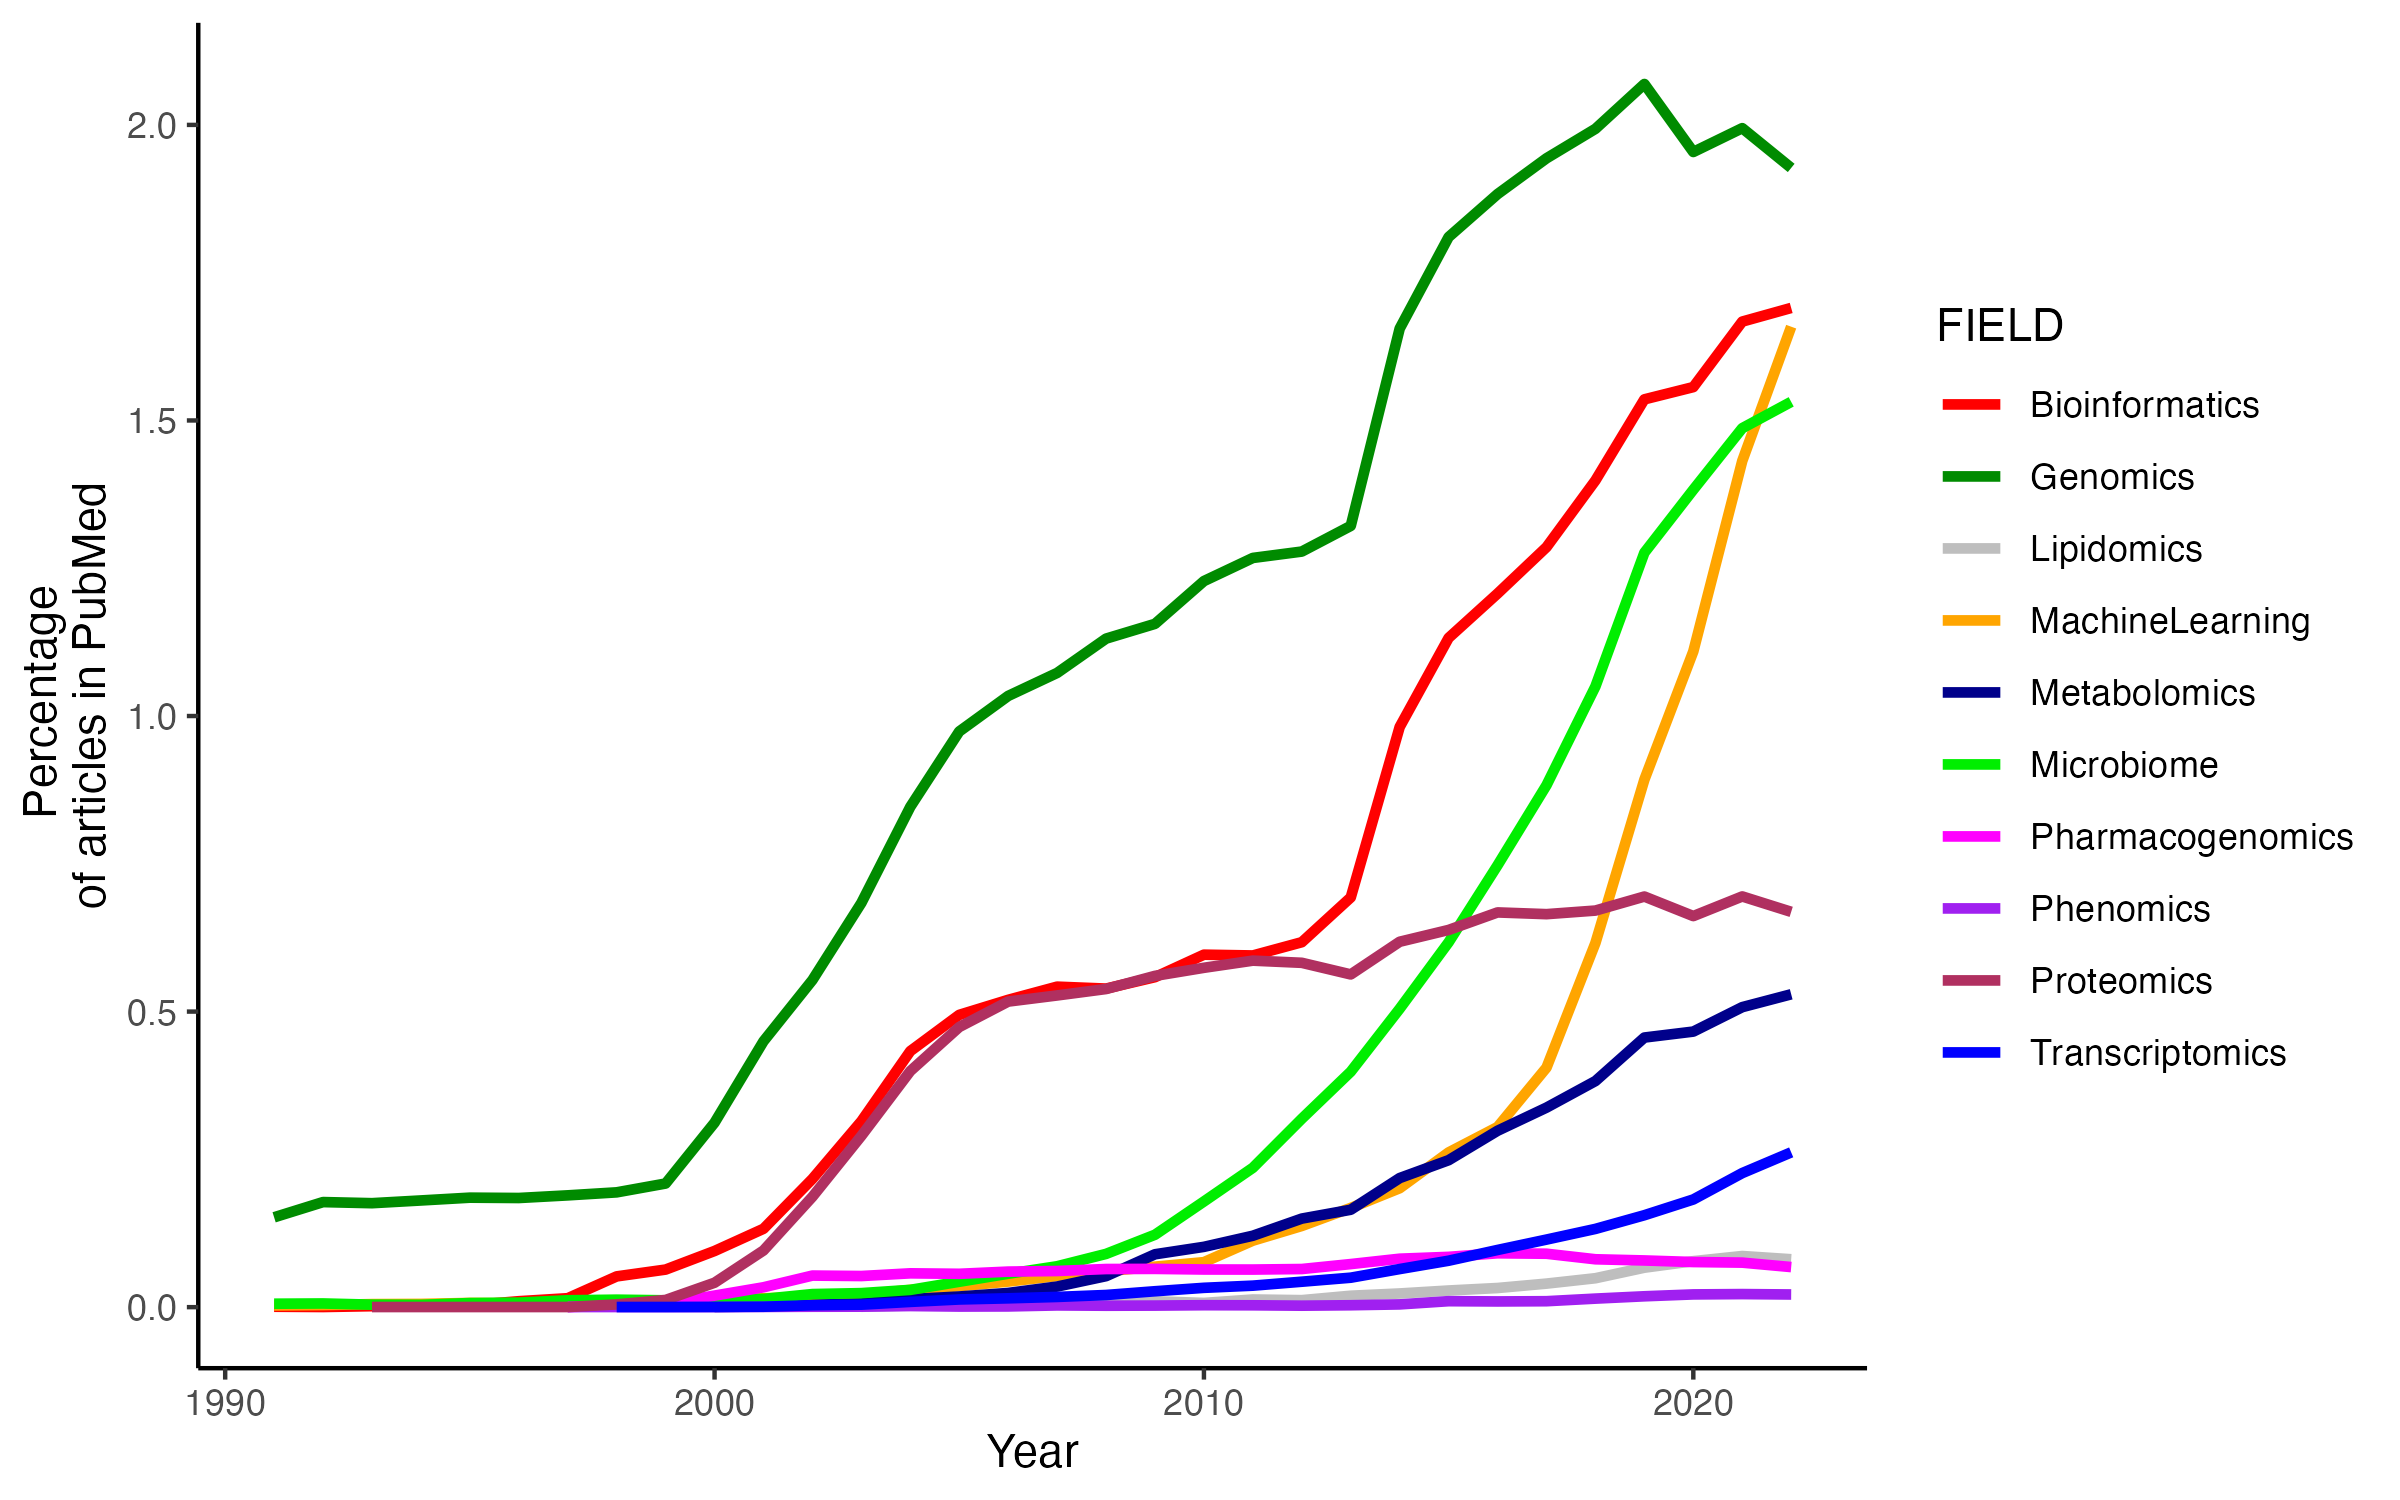
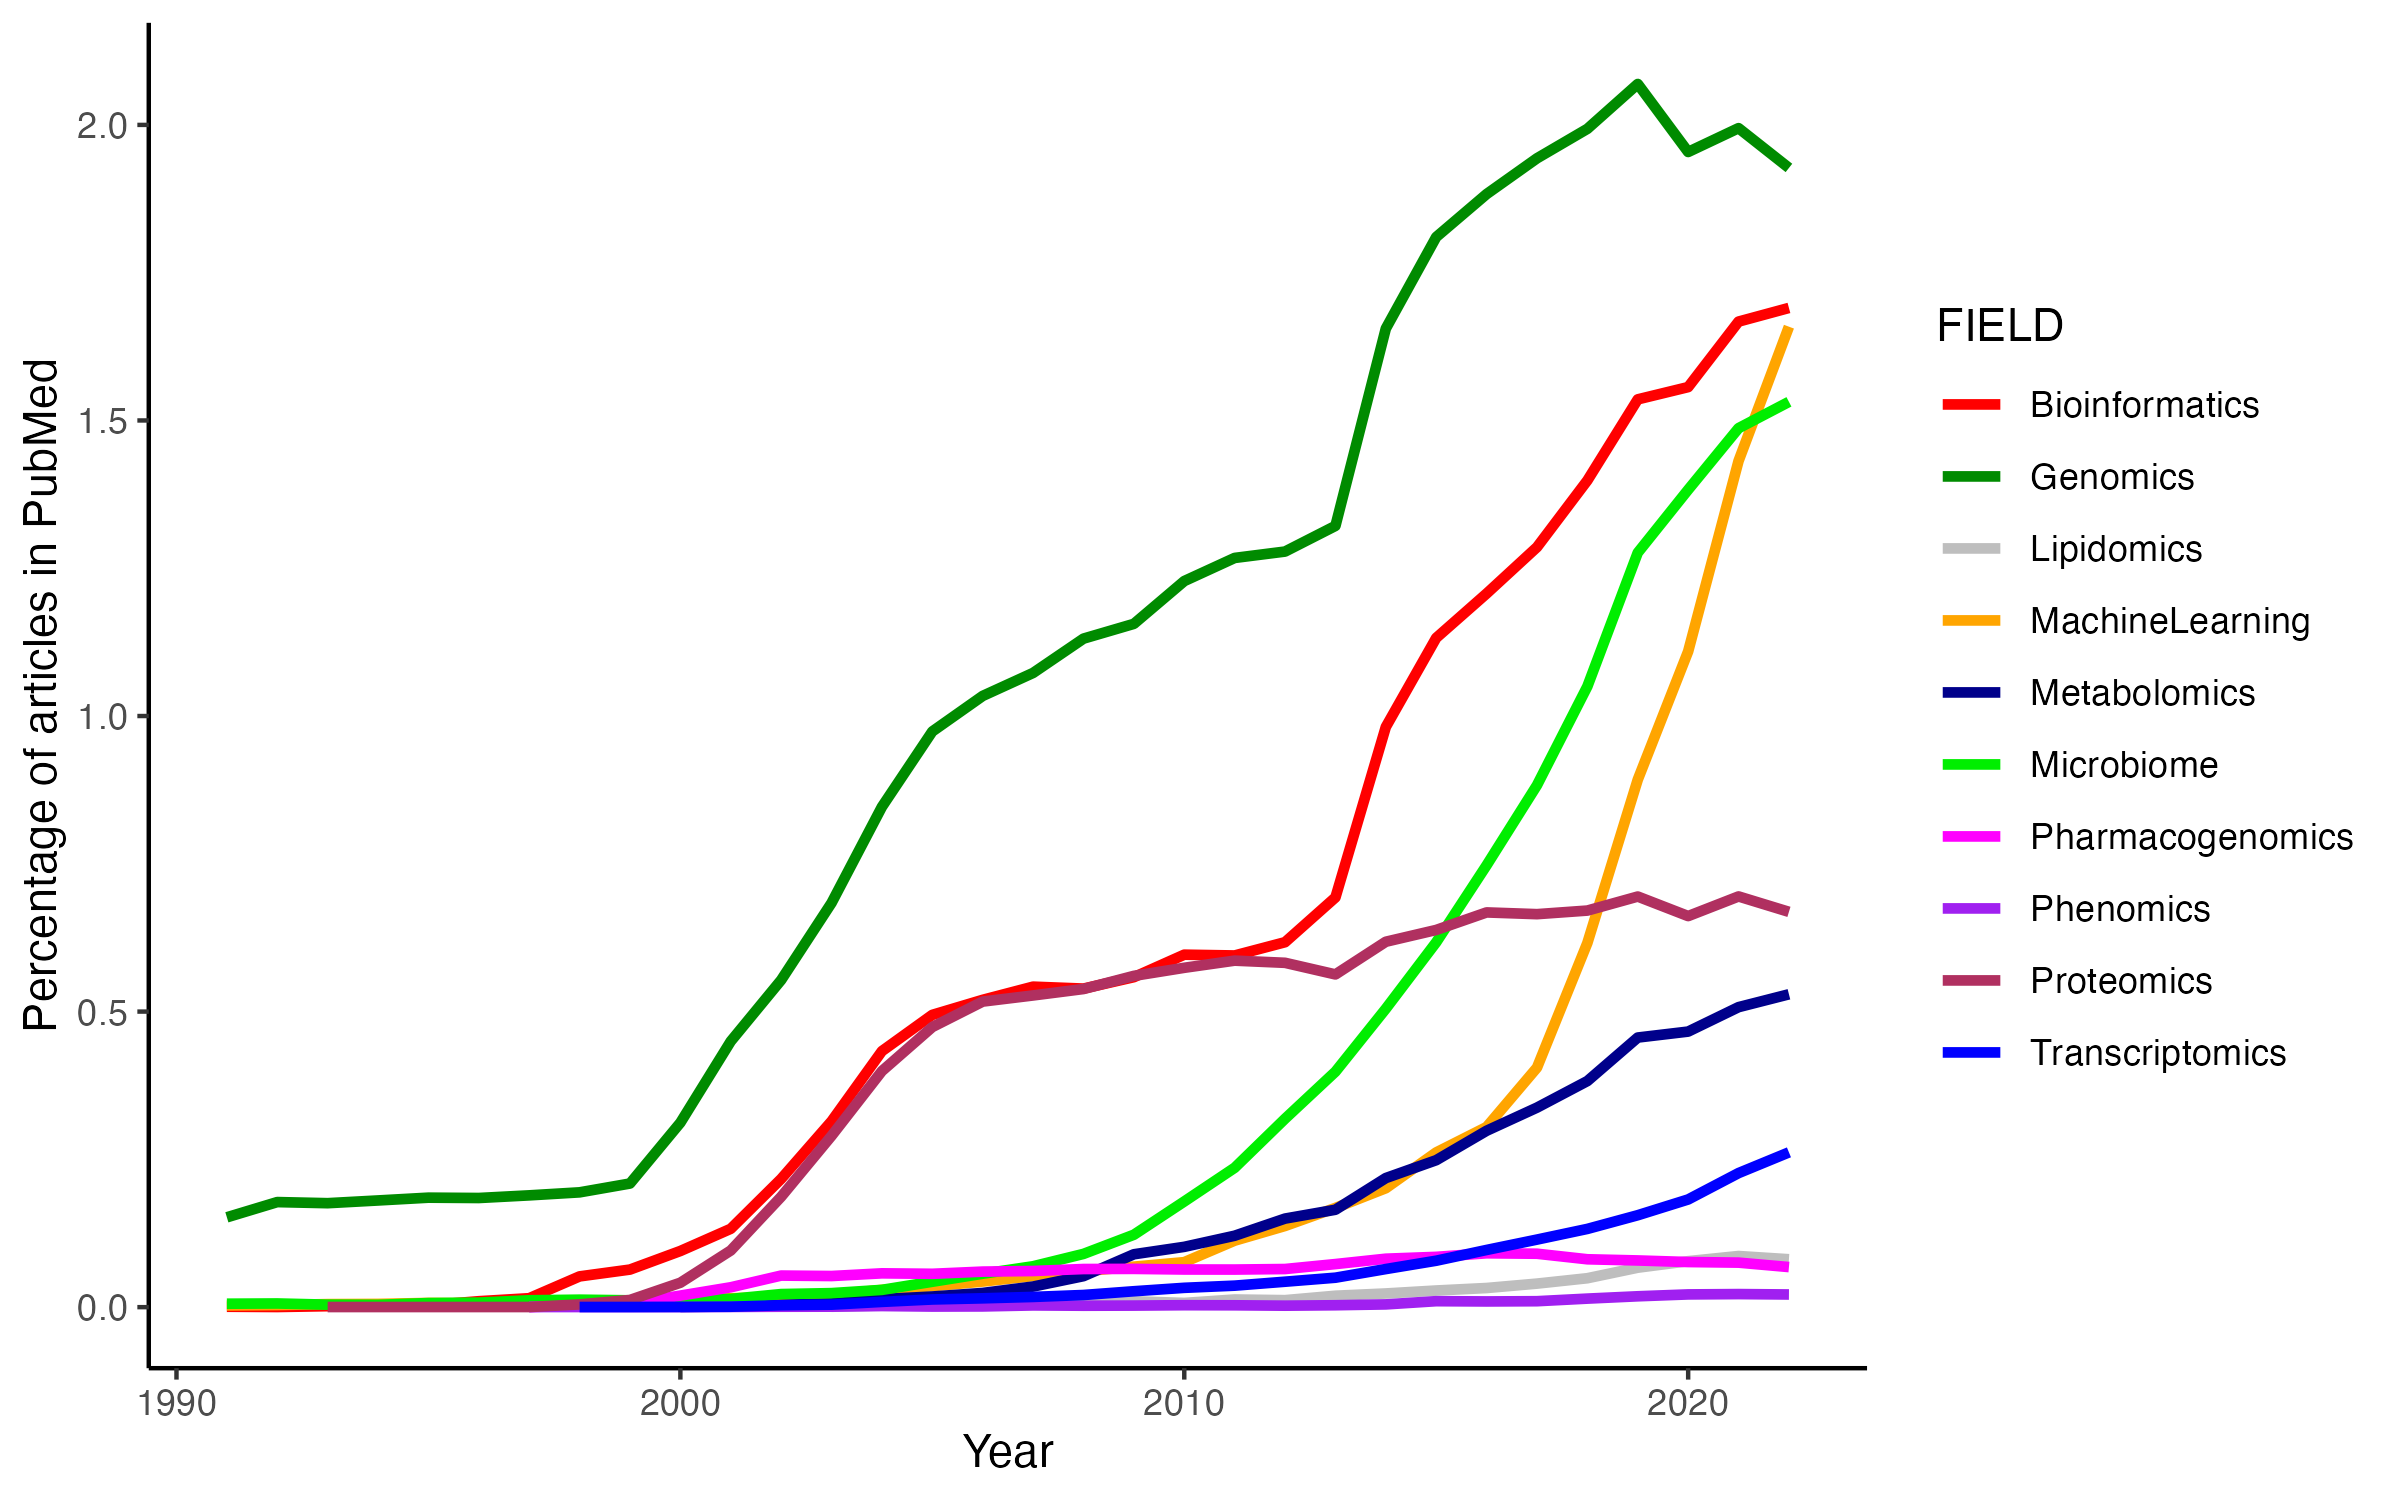
Update Files

diff --git a/tmb.py b/tmb.py
@@ -8,16 +8,26 @@ import pandas as pd
 import altair as alt
 from PIL import Image
 import subprocess
+import sys
+import defined
+from defined import pub_search_code
+
 
 # Find emojis here: https://www.webfx.com/tools/emoji-cheat-sheet/. 
 st.set_page_config(page_title="TMB Portfolio", page_icon=":sparkles:", layout = "wide")
 
-# Using local CSS
+# Using local files
 def local_css(file_name):
     with open(file_name) as f:
         st.markdown(f"<style>{f.read()}</style>", unsafe_allow_html=True)
 
 local_css("style/style.css")
+
+# def defined_code(file_name):
+#     with open(file_name) as f:
+#         st.markdown(f"{f.read()}", unsafe_allow_html=True)
+# 
+# defined_code("defined.py")
 
 
 #######################################
@@ -25,7 +35,7 @@ local_css("style/style.css")
 #######################################
 
 # For Professional Passion
-omics_ml = Image.open("imgvideo/omics_ml.png")
+pubmed_stats = Image.open("figures/pubmed_search_bar_plot.png")
 wcloud1 = Image.open("imgvideo/wordcloud.png")
 gwas = Image.open("imgvideo/gwas_in_biome.png")
 
@@ -107,7 +117,7 @@ with st.container():
           ### Machine Learning & Microbiome
           ...are fields getting lots of attention recently. PubMed metrics can prove this theory!
           """)
-        # st.image(omics_ml)
+        st.image(pubmed_stats)
         
         ##################################
         # Code and Image
@@ -119,40 +129,41 @@ with st.container():
         st.image(image)
         st.caption("This line chart was created using an `R script`, then imported into this web app generated using `streamlit` library and `Python`. Integration of different tools demonstrates robust solutions for gaining insights into complex data.")
         # st.subheader("Creating a plot using `ggplot2`")
-        with st.expander("Click to see the R code"):
-          code ="""
-            library(tidyverse)
-            
-            # Importing preprocessed Pubmed searches
-            read_csv("data/search_counts.csv", show_col_types = TRUE) %>% 
-              select(year, ends_with("_res")) %>%  
-              filter(year >= 1991) %>% # Filter as you please!
-              mutate(
-                Microbiome = 100 * (microb_res / all_res),
-                Genomics = 100 * (genom_res / all_res),
-                Proteomics = 100 * (proteo_res / all_res),
-                Metabolomics = 100 * (metabol_res / all_res),
-                Lipidomics = 100 * (lipid_res / all_res),
-                Phenomics = 100 * (pheno_res / all_res),
-                Transcriptomics = 100 * (transcr_res / all_res),
-                MachineLearning = 100 * (ml_res / all_res),
-                Bioinformatics = 100 * (bioinfo_res / all_res),
-                Pharmacogenomics = 100 * (pharma_res / all_res),
-                AllArticles = all_res) %>% 
-              select(-AllArticles, -ends_with("_res")) %>% 
-              pivot_longer(-year) %>%
-              filter(value > 0) %>% 
-              ggplot(aes(x = year, y = value, group = name, color = name)) +
-              geom_line(size = 1.2) +
-              # Optional color scaleing
-              scale_color_manual(name = "FIELD",
-                                 values = c("red", "green4", "gray", "orange", "blue4", "green2", "magenta", "purple", "maroon", "blue1")) +
-              labs(x = "Year", y = "Percentage of articles in PubMed", color = "FIELD") +
-              theme_classic()
-            
-            ggsave("figures/pubmed_search_bar_plot.png", width = 8, height = 5)
-          """
-          st.code(code, language="R")
+        with st.expander("Click to see or copy the R code"):
+          # code ="""
+          #   library(tidyverse)
+          #   
+          #   # Importing preprocessed Pubmed searches
+          #   read_csv("data/search_counts.csv", show_col_types = TRUE) %>% 
+          #     select(year, ends_with("_res")) %>%  
+          #     filter(year >= 1991) %>% # Filter as you please!
+          #     mutate(
+          #       Microbiome = 100 * (microb_res / all_res),
+          #       Genomics = 100 * (genom_res / all_res),
+          #       Proteomics = 100 * (proteo_res / all_res),
+          #       Metabolomics = 100 * (metabol_res / all_res),
+          #       Lipidomics = 100 * (lipid_res / all_res),
+          #       Phenomics = 100 * (pheno_res / all_res),
+          #       Transcriptomics = 100 * (transcr_res / all_res),
+          #       MachineLearning = 100 * (ml_res / all_res),
+          #       Bioinformatics = 100 * (bioinfo_res / all_res),
+          #       Pharmacogenomics = 100 * (pharma_res / all_res),
+          #       AllArticles = all_res) %>% 
+          #     select(-AllArticles, -ends_with("_res")) %>% 
+          #     pivot_longer(-year) %>%
+          #     filter(value > 0) %>% 
+          #     ggplot(aes(x = year, y = value, group = name, color = name)) +
+          #     geom_line(size = 1.2) +
+          #     
+          #     # Optional color scaling
+          #     scale_color_manual(name = "FIELD",
+          #                        values = c("red", "green4", "gray", "orange", "blue4", "green2", "magenta", "purple", "maroon", "blue1")) +
+          #     labs(x = "Year", y = "Percentage of articles in PubMed", color = "FIELD") +
+          #     theme_classic()
+          #   
+          #   ggsave("figures/pubmed_search_bar_plot.png", width = 8, height = 5)
+          # """
+          st.code(pub_search_code, language="R")
     
     
 # ---- WHAT I DO ----

diff --git a/defined.py b/defined.py
@@ -1,0 +1,37 @@
+
+
+
+pub_search_code ="""
+  library(tidyverse)
+  
+  # Importing preprocessed Pubmed searches
+  read_csv("data/search_counts.csv", show_col_types = TRUE) %>% 
+    select(year, ends_with("_res")) %>%  
+    filter(year >= 1991) %>% # Filter as you please!
+    mutate(
+      Microbiome = 100 * (microb_res / all_res),
+      Genomics = 100 * (genom_res / all_res),
+      Proteomics = 100 * (proteo_res / all_res),
+      Metabolomics = 100 * (metabol_res / all_res),
+      Lipidomics = 100 * (lipid_res / all_res),
+      Phenomics = 100 * (pheno_res / all_res),
+      Transcriptomics = 100 * (transcr_res / all_res),
+      MachineLearning = 100 * (ml_res / all_res),
+      Bioinformatics = 100 * (bioinfo_res / all_res),
+      Pharmacogenomics = 100 * (pharma_res / all_res),
+      AllArticles = all_res) %>% 
+    select(-AllArticles, -ends_with("_res")) %>% 
+    pivot_longer(-year) %>%
+    filter(value > 0) %>% 
+    ggplot(aes(x = year, y = value, group = name, color = name)) +
+    geom_line(size = 1.2) +
+    
+    # Optional color scaling
+    scale_color_manual(name = "FIELD",
+                       values = c("red", "green4", "gray", "orange", "blue4", "green2", "magenta", "purple", "maroon", "blue1")) +
+    labs(x = "Year", y = "Percentage of articles in PubMed", color = "FIELD") +
+    theme_classic()
+  
+  ggsave("figures/pubmed_search_bar_plot.png", width = 8, height = 5)
+"""
+
